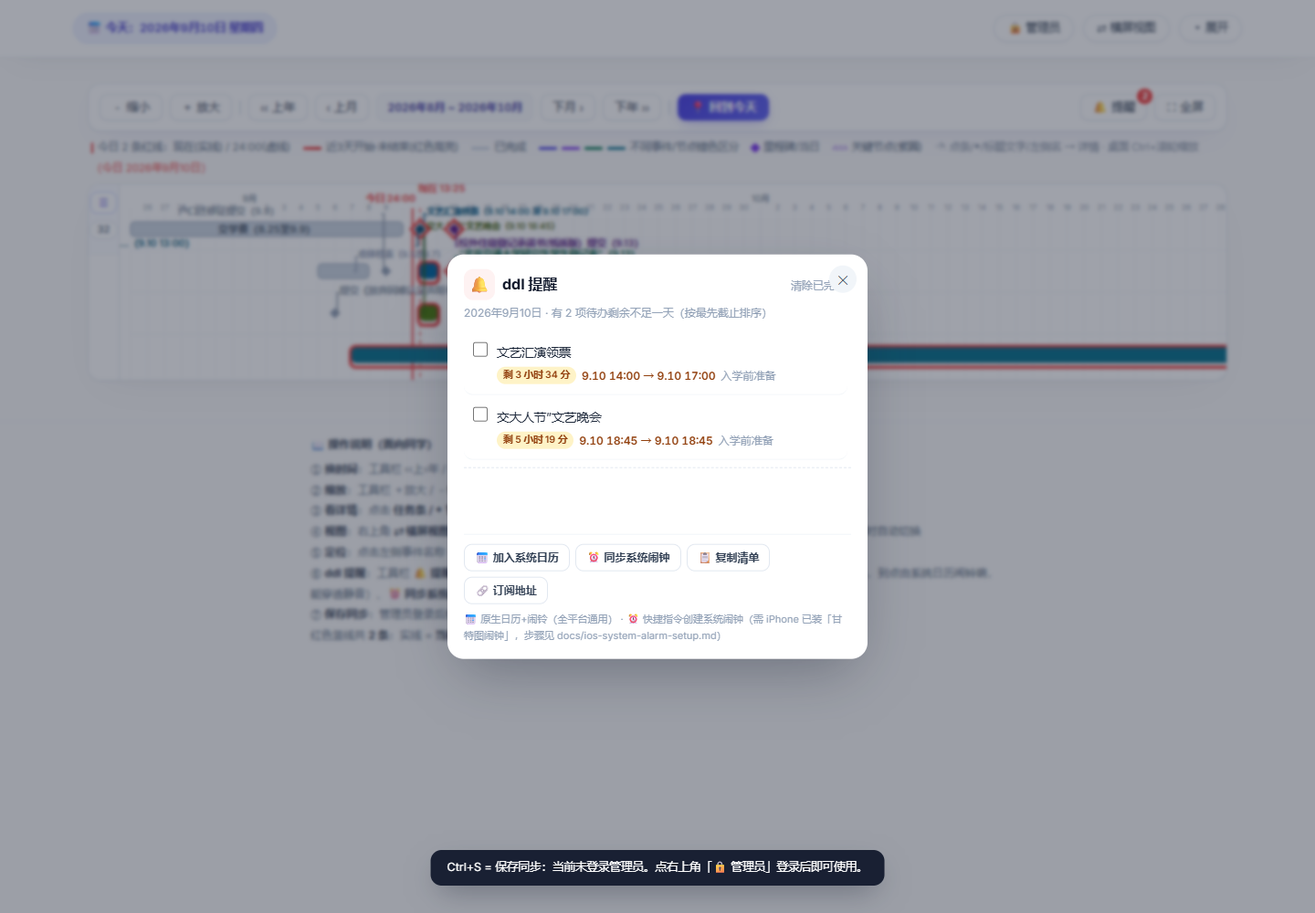
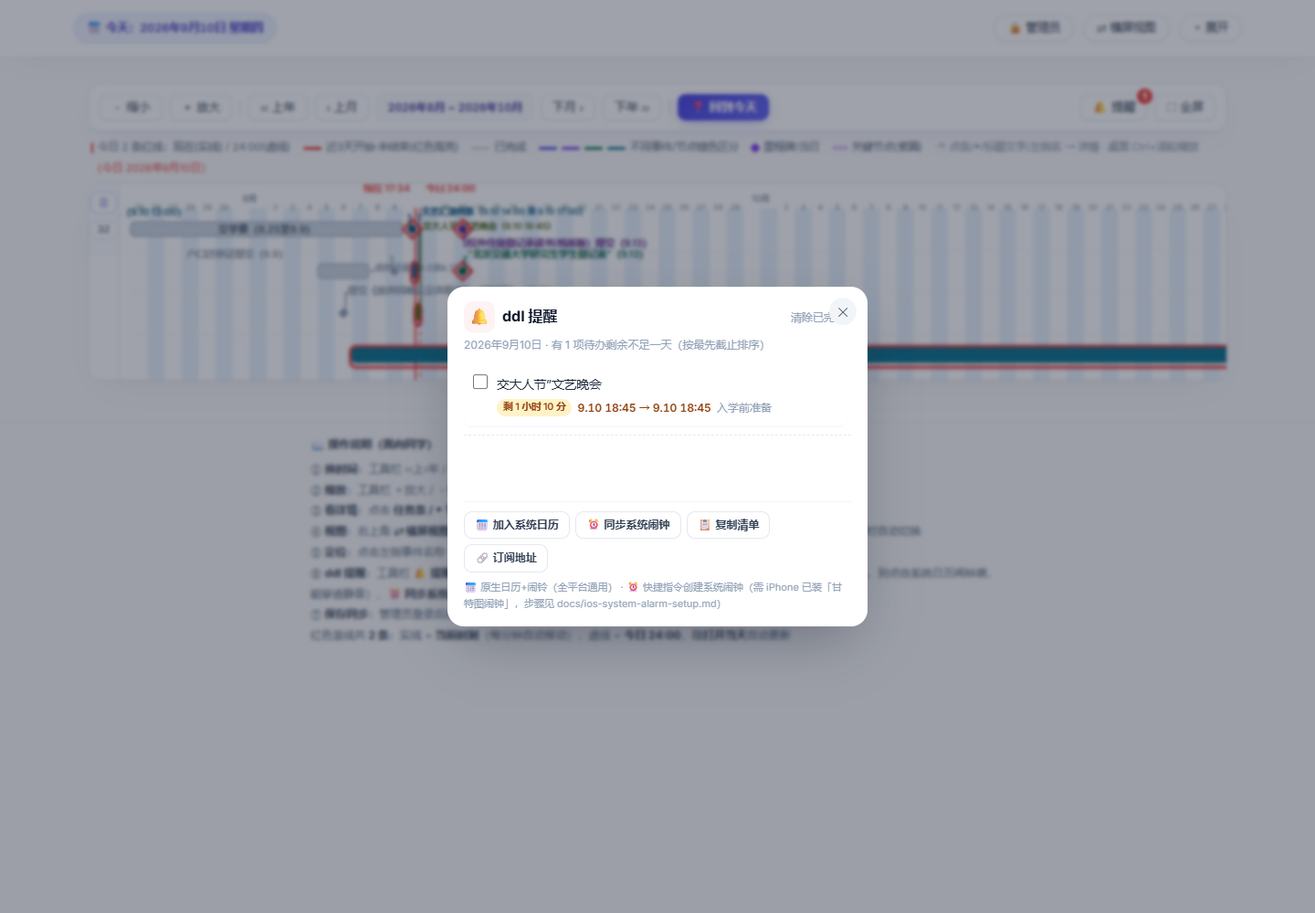
feat: 红线标注左右分置 + 逐日交替底色 + 日期数字居中 + 事件条分钟级等比定位
需求 1｜两条今日红线的标注对位
- viewer.js nowLinesSVG()：「现在 HH:mm」置于线的【左侧】(anchor=end)，「今日 24:00」
  置于线的【右侧】(anchor=start)；两侧越界时各自自动翻转
- 两条标注统一基线 y=AXIS_H-18（月份标签在 AXIS_H-7，错开一行），不再错位
- 去掉原先 24:00 标签「靠近月份标签就整条省略」的规避逻辑（已无必要）；
  nowLinesSVG 去掉不再使用的 monthLabelXs 形参

需求 2｜逐日交替底色 + 日期数字居中
- 新增 <g id="gv-zebra">：奇数日铺浅蓝 #e8f2fd、偶数日留白，先铺底再压网格与事件
  阈值 px>=4：更窄时单日不足 4px 会退化成摩尔纹噪声，此时靠月份网格定位
- 日期数字横坐标由「日起点」改为「日中心」(dj+0.5)*px —— 原贴日界线会让人误读成前后一天；
  同时删除已冗余的逐日 #f6f8fb 细网格（日界由交替底色表达），数字颜色 #9fb0c3 → #7e93a6 提对比

需求 3｜事件条按分钟级时刻等比定位与定长
- 新增 fracOfHM / xOfSpanStart / xOfSpanEnd / xOfPoint：
  条位置与长度按「日期 + 当日时刻占比」精确落位（3 小时的会议 = 1/8 天宽，最小 3px 保可点）
- 未填时刻语义与提醒/JSON 完全一致：开始 → 00:00；截止 → 23:59（同日且只填开始时刻 → 用开始时刻）
- 时间点/里程碑（零长度区间）：填了时刻精确落该分钟；未填取【当日正中】，避免压在日界线上分不清属于哪天
- 第二遍绘制去掉已无用的 x 轴中间变量；x1 改用 xOfPoint

测试与文档
- tools/verify-ui.js：新增 [6] 斑马纹与日期数字居中、[7] 分钟级等比定位（t25/m12/b7/b3 日内占比）、
  [8] 移动端竖屏+横屏；[2] 增补标注左右位与同基线断言；共 43 项
- ⚠ 测试反推 pxPerDay 不能用单条条纹的取整宽度（rect width 已 toFixed(1)，0.03px 取整误差
  乘十几天的跨度会放大成 0.04 天的假偏差）→ 改为用首尾两条蓝纹的跨度反推
- ⚠ ddl 面板断言由「固定时刻」改为「格式匹配」：面板会随真实时间淘汰已过期条目，硬编码时刻会假失败
- README：新增「坐标口径（分钟级，全链路统一）」段、渲染特性三条改写、文件清单同步
- index.html：资源版本号 → v23

验证：node test/unit.js 9 节全过；verify-ui.js 43 项全过（含移动端双视口）；标题文字 getBBox 两两碰撞 0 重叠

diff --git a/tools/verify-ui.js b/tools/verify-ui.js
@@ -61,6 +61,19 @@ function check(cond, msg) {
     return els.length === 2 ? [parseFloat(els[0].getAttribute('x1')), parseFloat(els[1].getAttribute('x1'))] : null;
   });
   check(nowX && nowX[1] > nowX[0], '「现在」线在「24:00」线左侧（' + (nowX && nowX.join(' < ')) + '）');
+  /* 标注左右位：①「现在」放线的左侧 ②「今日 24:00」放线的右侧；两条标注同一基线（不错位） */
+  const lab = await page.$$eval('#gv-nowlines text', els => els.map(e => ({
+    t: e.textContent, x: parseFloat(e.getAttribute('x')), y: parseFloat(e.getAttribute('y')),
+    an: e.getAttribute('text-anchor')
+  })));
+  const lNow = lab.filter(o => /^现在 \d{2}:\d{2}$/.test(o.t))[0];
+  const lEod = lab.filter(o => o.t === '今日 24:00')[0];
+  check(!!lNow && !!nowX && lNow.x < nowX[0] && lNow.an === 'end',
+    '「现在」标注在线左侧（文字 x=' + (lNow && lNow.x) + ' < 线 x=' + (nowX && nowX[0]) + '，anchor=' + (lNow && lNow.an) + '）');
+  check(!!lEod && !!nowX && lEod.x > nowX[1] && lEod.an === 'start',
+    '「今日 24:00」标注在线右侧（文字 x=' + (lEod && lEod.x) + ' > 线 x=' + (nowX && nowX[1]) + '，anchor=' + (lEod && lEod.an) + '）');
+  check(!!lNow && !!lEod && Math.abs(lNow.y - lEod.y) < 0.01,
+    '两条标注同基线 y=' + (lNow && lNow.y) + '（不再错位）');
 
   console.log('[3] 标题时间精确到分钟');
   const caps = await page.$$eval('#gv-svg .gv-bar title', els => els.map(e => e.textContent));
@@ -75,7 +88,9 @@ function check(cond, msg) {
   const whens = await page.$$eval('.gv-rem-list .gv-rem-item .when', els => els.map(e => e.textContent.trim()));
   const chips = await page.$$eval('.gv-rem-list .gv-rem-item .chip', els => els.map(e => e.textContent.trim()));
   check(whens.length > 0, '提醒列表有 ' + whens.length + ' 条');
-  check(whens.some(t => t.indexOf('9.10 14:00 → 9.10 17:00') >= 0), '每条显示开始→截止（分钟级）：' + whens.join(' | '));
+  /* 只断言「格式」是分钟级起止，不断言具体时刻：面板会随真实时间推移淘汰已过期条目 */
+  check(whens.every(t => /^\d{1,2}\.\d{1,2} \d{2}:\d{2} → \d{1,2}\.\d{1,2} \d{2}:\d{2}$/.test(t)),
+    '每条显示开始→截止（分钟级）：' + whens.join(' | '));
   check(chips.some(t => /剩 \d+ (分钟|小时)/.test(t)), '剩余时长精确到分钟：' + chips.join(' | '));
   const btns = await page.$$eval('.gv-rem-btn', els => els.map(e => e.textContent.trim()));
   check(btns.length === 4, '系统级通道 4 个按钮（实际 ' + btns.length + '）');
@@ -96,7 +111,113 @@ function check(cond, msg) {
   const toastTxt = await page.$eval('.gv-toast', e => e.textContent).catch(() => '');
   check(toastTxt.indexOf('Ctrl+S') >= 0, '未登录时给出明确提示（实际「' + toastTxt + '」）');
 
-  console.log('[6] 截图存档');
+  console.log('[6] 逐日交替底色 + 日期数字居中');
+  /* 用条纹几何反推 pxPerDay / LEFT_PAD。
+     ⚠ 不能用「单条条纹的取整宽度」当 px（rect width 已 toFixed(1)，0.03px 的取整误差乘上
+     十几天的跨度就会放大成 0.04 天的假偏差）——改用首尾两条蓝纹的跨度反推，精度提升两个数量级。 */
+  const geo = await page.evaluate(() => {
+    const svg = document.querySelector('#gv-svg');
+    const blue = svg.querySelectorAll('#gv-zebra rect');
+    if (!blue.length) return null;
+    const xs = Array.prototype.slice.call(blue).map(e => parseFloat(e.getAttribute('x')));
+    const fills = Array.prototype.slice.call(blue).map(e => e.getAttribute('fill'));
+    /* 蓝纹 zi = 1,3,5... 相邻两条相差 2 天 → px = (x_last - x_first) / (2*(n-1)) */
+    const px = xs.length > 1 ? (xs[xs.length - 1] - xs[0]) / (2 * (xs.length - 1)) : parseFloat(blue[0].getAttribute('width'));
+    const leftPad = xs[0] - px;                 /* 第 1 条蓝纹 = 第 1 天 → x = LEFT_PAD + 1*px */
+    const dn = Array.prototype.slice.call(svg.querySelectorAll('text'))
+      .filter(e => e.getAttribute('font-size') === '8.5' && /^\d{1,2}$/.test(e.textContent.trim()))
+      .map(e => Math.round((((parseFloat(e.getAttribute('x')) - leftPad) / px) % 1) * 1000) / 1000);
+    return { px: px, leftPad: leftPad, count: blue.length, xs: xs, fills: fills, dayFracs: dn };
+  });
+  check(!!geo && geo.count > 0, '存在逐日交替底色条纹（' + (geo && geo.count) + ' 条，px/天=' + (geo && geo.px.toFixed(2)) + '）');
+  check(!!geo && geo.fills.every(f => f === '#e8f2fd'), '条纹统一浅蓝 #e8f2fd');
+  check(!!geo && geo.xs.length > 1 && Math.abs((geo.xs[1] - geo.xs[0]) - 2 * geo.px) < 0.5,
+    '蓝条逐日交替（相邻蓝条间隔 = 2 天，实测 ' + (geo && (geo.xs[1] - geo.xs[0]).toFixed(1)) + 'px，期望 ' + (geo && (2 * geo.px).toFixed(1)) + 'px）');
+  check(!!geo && geo.dayFracs.length >= 3 && geo.dayFracs.every(f => Math.abs(f - 0.5) < 0.02),
+    '日期数字落在当日正中（日内小数≈0.5，实测 ' + (geo ? geo.dayFracs.slice(0, 6).join(' / ') : '') + '）');
+
+  console.log('[7] 事件条按分钟级时刻等比定位与定长');
+  const bars = await page.evaluate(() => {
+    const svg = document.querySelector('#gv-svg');
+    const blue = svg.querySelectorAll('#gv-zebra rect');
+    if (!blue.length) return null;
+    /* 与上面 [6] 同法：用首尾蓝纹跨度反推 px，避免取整宽度带来的累积偏差 */
+    const bxs = Array.prototype.slice.call(blue).map(e => parseFloat(e.getAttribute('x')));
+    const px = bxs.length > 1 ? (bxs[bxs.length - 1] - bxs[0]) / (2 * (bxs.length - 1)) : parseFloat(blue[0].getAttribute('width'));
+    const leftPad = bxs[0] - px;
+    const out = {};
+    ['t25', 'm12', 'b7', 'b3'].forEach(id => {
+      const host = svg.querySelector('.gv-bar[data-id="' + id + '"]');
+      if (!host) { out[id] = null; return; }
+      /* 近期事件会有「彩虹外描边」作为同级元素先出现：外描边 fill="none"，需排除 */
+      const rects = Array.prototype.slice.call(host.querySelectorAll('rect'));
+      const r = rects.filter(e => e.getAttribute('fill') !== 'none')[0];
+      const p = rects.length ? null : host.querySelector('path');
+      if (r) {
+        const x = parseFloat(r.getAttribute('x')), w = parseFloat(r.getAttribute('width'));
+        out[id] = { kind: 'rect', x: x, w: w, dayFrac: (x - leftPad) / px, frac: ((x - leftPad) / px) % 1, wDays: w / px };
+      } else if (p) {
+        const nums = (p.getAttribute('d') || '').match(/-?\d+(?:\.\d+)?/g);
+        const xs = (nums || []).map(Number).filter((_, i) => i % 2 === 0);
+        const cx = xs.length ? (Math.min.apply(null, xs) + Math.max.apply(null, xs)) / 2 : NaN;
+        out[id] = { kind: 'path', cx: cx, dayFrac: (cx - leftPad) / px, frac: ((cx - leftPad) / px) % 1 };
+      } else { out[id] = null; }
+    });
+    return { px: px, bars: out };
+  });
+  check(!!bars && !!bars.bars.t25 && Math.abs(bars.bars.t25.frac - 14 / 24) < 0.01,
+    't25 起点落在当日 14:00（日内占比 ' + (bars && bars.bars.t25 && bars.bars.t25.frac.toFixed(3)) + ' ≈ 0.583）');
+  const expW = bars ? Math.max(0.125 * bars.px, 3) : 0;
+  check(!!bars && !!bars.bars.t25 && Math.abs(bars.bars.t25.w - expW) < 0.6,
+    't25 长度 = 3 小时占比（期望 ' + expW.toFixed(1) + 'px，实际 ' + (bars && bars.bars.t25 && bars.bars.t25.w.toFixed(1)) + 'px）');
+  check(!!bars && !!bars.bars.m12 && Math.abs(bars.bars.m12.frac - 13 / 24) < 0.01,
+    'm12 里程碑落在当日 13:00（日内占比 ' + (bars && bars.bars.m12 && bars.bars.m12.frac.toFixed(3)) + ' ≈ 0.542）');
+  check(!!bars && !!bars.bars.b7 && Math.abs(bars.bars.b7.frac - 18.75 / 24) < 0.01,
+    'b7 落在当日 18:45（日内占比 ' + (bars && bars.bars.b7 && bars.bars.b7.frac.toFixed(3)) + ' ≈ 0.781）');
+  check(!!bars && !!bars.bars.b3 && Math.abs(bars.bars.b3.frac - 0.5) < 0.02,
+    '未填时刻的里程碑取当日正中（b3 日内占比 ' + (bars && bars.bars.b3 && bars.bars.b3.frac.toFixed(3)) + ' ≈ 0.5）');
+
+  console.log('[8] 移动端（竖屏 390×844 / 横屏 844×390）');
+  /* 本项目主要使用者是手机上打开的同学：逐日底色、日期数字居中、红线标注左右位都必须在
+     窄视口下同样成立（竖屏 px/天 较小，日期数字会按阈值自动省略，属预期）。 */
+  for (const vp of [{ w: 390, h: 844, n: '竖屏' }, { w: 844, h: 390, n: '横屏' }]) {
+    const mp = await browser.newPage({ viewport: { width: vp.w, height: vp.h } });
+    const merrs = [];
+    mp.on('pageerror', e => merrs.push(e.message));
+    mp.on('console', m => { if (m.type() === 'error') merrs.push(m.text()); });
+    await mp.goto(URL_, { waitUntil: 'load' });
+    await mp.waitForSelector('#gv-svg .gv-bar', { timeout: 15000 });
+    await mp.waitForTimeout(350);
+    const mr = await mp.evaluate(() => {
+      const svg = document.querySelector('#gv-svg');
+      const blue = svg.querySelectorAll('#gv-zebra rect');
+      const xs = Array.prototype.slice.call(blue).map(e => parseFloat(e.getAttribute('x')));
+      const px = xs.length > 1 ? (xs[xs.length - 1] - xs[0]) / (2 * (xs.length - 1)) : 0;
+      const leftPad = xs.length ? xs[0] - px : 0;
+      const dn = Array.prototype.slice.call(svg.querySelectorAll('text'))
+        .filter(e => e.getAttribute('font-size') === '8.5' && /^\d{1,2}$/.test(e.textContent.trim()))
+        .map(e => Math.round((((parseFloat(e.getAttribute('x')) - leftPad) / px) % 1) * 1000) / 1000);
+      const lab = Array.prototype.slice.call(svg.querySelectorAll('#gv-nowlines text')).map(e => ({ t: e.textContent, x: parseFloat(e.getAttribute('x')), an: e.getAttribute('text-anchor') }));
+      const ln = Array.prototype.slice.call(svg.querySelectorAll('#gv-nowlines line')).map(e => parseFloat(e.getAttribute('x1')));
+      return { px: px, zebra: blue.length, dn: dn, lab: lab, ln: ln, bars: svg.querySelectorAll('.gv-bar').length };
+    });
+    const tag = '[' + vp.n + '] ';
+    check(merrs.filter(e => !/favicon|fonts\.googleapis/i.test(e)).length === 0, tag + '无脚本错误');
+    check(mr.bars >= 30, tag + '事件条渲染完整（' + mr.bars + ' 条）');
+    check(mr.px > 0, tag + '逐日底色/日几何有效（px/天=' + mr.px.toFixed(2) + '）');
+    check(mr.dn.length === 0 || mr.dn.every(f => Math.abs(f - 0.5) < 0.02),
+      tag + '日期数字居中或按阈值省略（实测 ' + (mr.dn.length ? mr.dn.slice(0, 5).join('/') : '已省略，px<10.5') + '）');
+    if (mr.lab.length === 2 && mr.ln.length === 2) {
+      const n2 = mr.lab.filter(o => /^现在/.test(o.t))[0], e2 = mr.lab.filter(o => /^今日 24:00$/.test(o.t))[0];
+      check(!!n2 && n2.x < mr.ln[0] && n2.an === 'end', tag + '「现在」标注在线左侧');
+      check(!!e2 && e2.x > mr.ln[1] && e2.an === 'start', tag + '「今日 24:00」标注在线右侧');
+    } else {
+      console.log('  · ' + tag + '今日不在可视范围，跳过红线标签检查');
+    }
+    await mp.close();
+  }
+
+  console.log('[9] 截图存档');
   await page.screenshot({ path: path.join(__dirname, '..', 'docs', 'preview-desktop.png'), fullPage: false });
   await page.click('[data-act="remind"]');
   await page.waitForSelector('.gv-rem-panel.on');

diff --git a/js/viewer.js b/js/viewer.js
@@ -611,32 +611,33 @@
       var fracNow = (n.getHours() * 60 + n.getMinutes()) / 1440;
       return [xOfDayFrac(n, fracNow, px), xOfDayFrac(n, 1, px)];
     }
-    /* 两条红线的 SVG 片段（px/totalH 由调用方传入；单列成函数是为了让①线能被定时刷新，无需整图重绘） */
-    function nowLinesSVG(px, totalH, worldW, monthLabelXs) {
+    /* 两条红线的 SVG 片段（px/totalH 由调用方传入；单列成函数是为了让①线能被定时刷新，无需整图重绘）
+       标注位置约定（避免与月份标签行互相错位）：
+         · 「现在 HH:mm」文字置于线的【左侧】（左侧越界时自动翻到右侧）
+         · 「今日 24:00」文字置于线的【右侧】（右侧越界时自动翻到左侧）
+       两条标签共用同一条基线 y = AXIS_H-18（月份标签在 y = AXIS_H-7，错开一整行，互不撞字）。 */
+    function nowLinesSVG(px, totalH, worldW) {
       if (!hasTodayInRange) return '';
       var xs = redLineXs(px);
       var n = new Date();
       var nowHM = pad(n.getHours()) + ':' + pad(n.getMinutes());
+      var labY = (AXIS_H - 18).toFixed(1);
       var out = '';
-      /* ① 当前时刻：实线 + 顶行标签（顶行 y=AXIS_H-18 与月份标签(y=AXIS_H-7)错开一行，避免撞字） */
+      /* ① 当前时刻：实线 + 标签在左 */
       out += '<line x1="' + xs[0].toFixed(1) + '" y1="' + AXIS_H + '" x2="' + xs[0].toFixed(1) + '" y2="' + totalH + '" stroke="#ef4444" stroke-width="2.2" opacity=".95"/>';
       if (xs[0] >= LEFT_PAD && xs[0] <= worldW - RIGHT_PAD) {
         var labNow = '现在 ' + nowHM;
-        var fitsRight = (xs[0] + 6 + estW(labNow, 10.5)) <= (worldW - RIGHT_PAD + 6);
-        out += '<text x="' + (fitsRight ? xs[0] + 6 : xs[0] - 6).toFixed(1) + '" y="' + (AXIS_H - 18) +
-          '" text-anchor="' + (fitsRight ? 'start' : 'end') + '" font-size="10.5" font-weight="700" fill="#ef4444">' + labNow + '</text>';
+        var leftOk = (xs[0] - 6 - estW(labNow, 10.5)) >= 2;   /* 左侧放得下就放左边（默认） */
+        out += '<text x="' + (leftOk ? xs[0] - 6 : xs[0] + 6).toFixed(1) + '" y="' + labY +
+          '" text-anchor="' + (leftOk ? 'end' : 'start') + '" font-size="10.5" font-weight="700" fill="#ef4444">' + labNow + '</text>';
       }
-      /* ② 今日 24:00：虚线 + 与月份标签同行的右对齐标签（月份标签占位时省略文字，只留线） */
+      /* ② 今日 24:00：虚线 + 标签在右 */
       out += '<line x1="' + xs[1].toFixed(1) + '" y1="' + AXIS_H + '" x2="' + xs[1].toFixed(1) + '" y2="' + totalH + '" stroke="#ef4444" stroke-width="1.6" stroke-dasharray="5 4" opacity=".8"/>';
-      var labEod = '今日 24:00';
       if (xs[1] >= LEFT_PAD && xs[1] <= worldW - RIGHT_PAD) {
-        var nearMonth = false;
-        for (var mi2 = 0; mi2 < monthLabelXs.length; mi2++) {
-          if (Math.abs(xs[1] - monthLabelXs[mi2]) < 74) { nearMonth = true; break; }
-        }
-        if (!nearMonth) {
-          out += '<text x="' + (xs[1] - 5).toFixed(1) + '" y="' + (AXIS_H - 7) + '" text-anchor="end" font-size="10.5" font-weight="700" fill="#ef4444">' + labEod + '</text>';
-        }
+        var labEod = '今日 24:00';
+        var rightOk = (xs[1] + 6 + estW(labEod, 10.5)) <= (worldW - RIGHT_PAD + 4);  /* 右侧放得下就放右边（默认） */
+        out += '<text x="' + (rightOk ? xs[1] + 6 : xs[1] - 6).toFixed(1) + '" y="' + labY +
+          '" text-anchor="' + (rightOk ? 'start' : 'end') + '" font-size="10.5" font-weight="700" fill="#ef4444">' + labEod + '</text>';
       }
       return out;
     }
@@ -655,7 +656,7 @@
         var px = pxPerDay();
         var wW = parseFloat(svgEl.getAttribute('width')) || 0;
         var tH = parseFloat(svgEl.getAttribute('height')) || 0;
-        g.innerHTML = nowLinesSVG(px, tH, wW, curMonthLabelXs);
+        g.innerHTML = nowLinesSVG(px, tH, wW);
       }
       /* ② 提醒角标依赖「剩余时长」，跨分钟后可能变化 */
       try { remUpdateBadge(); } catch (e) {}
@@ -677,6 +678,20 @@
 
       function xOf(d) { return LEFT_PAD + diffDays(minDate, d) * px; }
       function yOfTrack(k) { return AXIS_H + k * rowH; }
+      /* ---- 分钟级定位（与提醒口径 / deadlines.json 完全一致，改一处必须同步另一处）----
+         开始：开始日期 + 开始时刻（未填时刻 → 当日 00:00）
+         截止：结束日期 + 结束时刻（未填 → 当日 23:59；起止同日且只填了开始时刻 → 用开始时刻）
+         于是「3 小时的会议」就是 1/8 天宽的条，不再一律占满整日。 */
+      function fracOfHM(hm) { return (hm.h * 60 + hm.mi) / 1440; }
+      function xOfSpanStart(t) { return xOfDayFrac(t.start, fracOfHM(remStartHM(t)), px); }
+      function xOfSpanEnd(t) { return xOfDayFrac(t.end || t.start, fracOfHM(remDueHM(t)), px); }
+      /* 时间点/里程碑（零长度区间）：填了时刻 → 精确落在该分钟；未填 → 取当日正中。
+         为什么未填取正中而不是日界：零长度标记压在斑马纹的日界线上会让人分不清属于哪一天。 */
+      function xOfPoint(t) {
+        var s = remHM(t.startTime, 0, 0);
+        var hm = s.exact ? s : remHM(t.endTime, 0, 0);   /* 只看时刻本身，不做 23:59 兜底 */
+        return xOfDayFrac(t.start, hm.exact ? fracOfHM(hm) : 0.5, px);
+      }
 
       var S = '';
       /* 近期事件高亮渐变 + 今日竖线渐变（红色 #ef4444 → #dc2626），用于「开始日在今天±3天内且未结束」的事件/节点与今日线
@@ -689,6 +704,17 @@
         '<stop offset="0" stop-color="#ef4444"/><stop offset="1" stop-color="#dc2626"/>' +
         '</linearGradient>' +
         '</defs>';
+
+      /* 逐日交替底色（浅蓝 #e8f2fd / 留白）：先铺底，再压网格与事件条，用于一眼区分相邻日期。
+         阈值 px>=4：再窄时单日不足 4px，条纹会退化成摩尔纹噪声，此时靠月份网格定位即可。 */
+      if (px >= 4) {
+        S += '<g id="gv-zebra">';
+        for (var zi = 1; zi < totalDays; zi += 2) {
+          S += '<rect x="' + (LEFT_PAD + zi * px).toFixed(1) + '" y="' + AXIS_H +
+            '" width="' + px.toFixed(1) + '" height="' + (totalH - AXIS_H).toFixed(1) + '" fill="#e8f2fd"/>';
+        }
+        S += '</g>';
+      }
 
       /* 月份网格 + 轴标签 */
       S += '<g>';
@@ -709,27 +735,21 @@
           lastLabelX = xm;
         }
       }
-      /* 天刻度：逐日细网格 + 【每一天】数字刻度（px 足够时全部显示，随缩放自动取舍；避开月份/红线文字） */
+      /* 天刻度：【每一天】的日期数字放在该日区间的正中（原来贴在日界线上，视觉上分不清属于哪一天；
+         日界线本身已由逐日交替底色表达，不再画冗余细网格） */
       var redXs = redLineXs(px);
-      if (px >= 6) {
-        for (var di = 0; di <= totalDays; di++) {
-          var ddx = LEFT_PAD + di * px;
-          S += '<line x1="' + ddx.toFixed(1) + '" y1="' + AXIS_H + '" x2="' + ddx.toFixed(1) + '" y2="' + totalH + '" stroke="#f6f8fb" stroke-width="1"/>';
-        }
-        if (px >= 10.5) {
-          /* 每一天都显示日期数字（不再只显示奇数天） */
-          for (var dj = 0; dj <= totalDays; dj++) {
-            var ddt = addDays(minDate, dj);
-            var ddx2 = LEFT_PAD + dj * px;
-            var tooNear = false;
-            for (var ri = 0; !tooNear && ri < redXs.length; ri++) { if (Math.abs(ddx2 - redXs[ri]) < 12) tooNear = true; }
-            for (var mi = 0; !tooNear && mi < monthLabelXs.length; mi++) {
-              if (Math.abs(ddx2 - monthLabelXs[mi]) < 10) tooNear = true;
-            }
-            if (tooNear) continue;
-            if (ddx2 < LEFT_PAD + 7 || ddx2 > worldW - RIGHT_PAD - 4) continue;
-            S += '<text x="' + ddx2.toFixed(1) + '" y="' + (AXIS_H + 2) + '" text-anchor="middle" font-size="8.5" fill="#9fb0c3">' + ddt.getDate() + '</text>';
+      if (px >= 10.5) {
+        for (var dj = 0; dj < totalDays; dj++) {
+          var ddt = addDays(minDate, dj);
+          var ddx2 = LEFT_PAD + (dj + 0.5) * px;          /* 日中心 */
+          var tooNear = false;
+          for (var ri = 0; !tooNear && ri < redXs.length; ri++) { if (Math.abs(ddx2 - redXs[ri]) < 12) tooNear = true; }
+          for (var mi = 0; !tooNear && mi < monthLabelXs.length; mi++) {
+            if (Math.abs(ddx2 - monthLabelXs[mi]) < 12) tooNear = true;
           }
+          if (tooNear) continue;
+          if (ddx2 < LEFT_PAD + 7 || ddx2 > worldW - RIGHT_PAD - 4) continue;
+          S += '<text x="' + ddx2.toFixed(1) + '" y="' + (AXIS_H + 2) + '" text-anchor="middle" font-size="8.5" fill="#7e93a6">' + ddt.getDate() + '</text>';
         }
       }
       curMonthLabelXs = monthLabelXs;
@@ -742,7 +762,7 @@
 
       /* 今日两条红线（纯红 #ef4444；SVG 渐变在零宽竖线上会失效，故用纯色）：
          ① 当前时刻（分钟级，独立 #gv-nowlines 组，可被 tickNowLine 单独刷新） ② 今日 24:00 */
-      S += '<g id="gv-nowlines">' + nowLinesSVG(px, totalH, worldW, monthLabelXs) + '</g>';
+      S += '<g id="gv-nowlines">' + nowLinesSVG(px, totalH, worldW) + '</g>';
 
       /* ================= 绘制事件（两遍：先画条收集占用矩形，再放里程碑与防重叠标注） ================= */
       var barRects = [];    // 已画元素占用 {x1,y1,x2,y2}
@@ -766,8 +786,9 @@
       /* ---- 第一遍：普通时间条 ---- */
       tasksAll.forEach(function (t) {
         if (t.point || t.milestone) return;
-        var x1 = xOf(t.start), x2 = xOf(t.end);
-        var w = Math.max(x2 - x1 + px, 3);
+        /* 起止按「日期 + 分钟级时刻」比例定位与定长：3 小时的事件就是 1/8 天宽（最小 3px 保可点） */
+        var x1 = xOfSpanStart(t), x2 = xOfSpanEnd(t);
+        var w = Math.max(x2 - x1, 3);
         var st = statusOf(t, today);
         var k = layout.trackOf[t.id];
         var cy = yOfTrack(k) + rowH / 2;
@@ -919,7 +940,7 @@
 
       /* ---- 第二遍：里程碑/当日点（菱形+旁标）与过窄条外置名称标注 ---- */
       tasksAll.forEach(function (t) {
-        var x1 = xOf(t.start), x2 = xOf(t.end);
+        var x1 = xOfPoint(t);   /* 分钟级定位：填了时刻落该分钟；未填取当日正中 */
         var k = layout.trackOf[t.id];
         var cy = yOfTrack(k) + rowH / 2;
         var id = esc(t.id || '');

diff --git a/index.html b/index.html
@@ -181,11 +181,11 @@
   </div>
 </div>
 
-<script src="./js/parser.js?v=22"></script>
-<script src="./js/events.js?v=22"></script>
-<script src="./js/ics.js?v=22"></script>
-<script src="./js/admin.js?v=22"></script>
-<script src="./js/viewer.js?v=22"></script>
+<script src="./js/parser.js?v=23"></script>
+<script src="./js/events.js?v=23"></script>
+<script src="./js/ics.js?v=23"></script>
+<script src="./js/admin.js?v=23"></script>
+<script src="./js/viewer.js?v=23"></script>
 <script>
   // 内置示例（仅当无法读取 gantt.md 时兜底，保证 file:// 双击也能看到效果）
   const SAMPLE_GANTT = `gantt

diff --git a/README.md b/README.md
@@ -16,19 +16,21 @@
 | `index.html` | 手机/电脑访问的渲染页：打开时读取 gantt.md → 自研轻量渲染器现场出图（无外部依赖） |
 | `js/parser.js` | Mermaid gantt 语法子集解析器（浏览器+Node 双用） |
 | `js/events.js` | 班级事务结构化详情（表二·班群通知表，b1..b9） |
-| `js/viewer.js` | 自研交互式 SVG 甘特渲染器：年月切换/回到今天/缩放（桌面 Ctrl+滚轮）/点击看详情/事件错色/智能防重叠标注/天刻度/双条今日红线/手机横屏整页 90° 旋转 |
+| `js/viewer.js` | 自研交互式 SVG 甘特渲染器：年月切换/回到今天/缩放（桌面 Ctrl+滚轮）/点击看详情/事件错色/智能防重叠标注/逐日交替底色/**分钟级等比事件条**/双条今日红线/手机横屏整页 90° 旋转 |
 | `js/ics.js` | iCalendar(.ics) 生成器（网页「加入系统日历」与构建期 `deadlines.ics` 共用，UTC 绝对触发时刻） |
 | `vendor/mermaid.min.js` | 自托管渲染引擎 v11.17.2（仅 `editor.html` 本地编辑器使用） |
 | `editor.html` | 本地即时预览编辑器（双击打开，左侧改代码右侧实时出图） |
 | `test/unit.js` | Node 单测：解析器 + 数据完整性 + 序列化 round-trip + ics 生成器 + 分钟级时间口径（`node test/unit.js`） |
-| `tools/verify-ui.js` | 真实 Chromium 端到端自检：两条红线 / 分钟级标题 / ddl 面板 / Ctrl+S / .ics 通道 + 出预览截图（开发期工具，需本机 playwright） |
+| `tools/verify-ui.js` | 真实 Chromium 端到端自检：红线标注左右位 / 分钟级标题 / 逐日斑马纹 / 日期数字居中 / 分钟级等比事件条 / ddl 面板 / Ctrl+S / .ics 通道 + 出预览截图（开发期工具，需本机 playwright） |
 | `tools/build-deadlines.js` | ⭐ 把 `gantt.md` 编译成 `deadlines.json` + `deadlines.ics`（`node tools/build-deadlines.js`） |
 | `deadlines.json` | **自动生成，勿手改**：拍平后的待办清单（时间精确到分钟），iPhone 快捷指令直接读取 |
 | `deadlines.ics` | **自动生成，勿手改**：可订阅的系统日历源，一次订阅长期生效（含到点/提前两个闹铃） |
 | `docs/ios-reminder-setup.md` | iPhone 强提醒配置指南（快捷指令 + 定时自动化，零服务器） |
 | `docs/ios-system-alarm-setup.md` | iPhone **系统级闹钟/日历**配置指南（日历订阅、.ics 导入、时钟 App 真闹钟） |
 
-**今日线原理**：渲染时按浏览器当前日期绘制两条红色竖线 —— 实线为**当前时刻**（分钟级小数天偏移，页面上每分钟自动移动），虚线为**今日 24:00**（当日右边界）。全部本地计算，无服务器、无定时任务。
+**今日线原理**：渲染时按浏览器当前日期绘制两条红色竖线 —— 实线为**当前时刻**（分钟级小数天偏移，页面上每分钟自动移动，标注「现在 HH:mm」置于线**左**侧），虚线为**今日 24:00**（当日右边界，标注置于线**右**侧）。全部本地计算，无服务器、无定时任务。
+
+**坐标口径（分钟级，全链路统一）**：事件条的位置与长度按 `开始日期+开始时刻` → `结束日期+结束时刻` 的**真实比例**落在时间轴上（3 小时的会议就是 1/8 天宽，最小 3px 保可点）。未填时刻时的默认语义：开始 → 当日 00:00；截止 → 当日 23:59（起止同日且只填了开始时刻 → 用开始时刻）。时间点/里程碑是零长度区间：填了时刻精确落在该分钟，未填则取**当日正中**（压在日界线上会分不清属于哪一天）。此口径与 ddl 提醒、`deadlines.json`、`deadlines.ics` 完全一致 —— 改一处必须同步改 `js/viewer.js` 的 `remStartHM/remDueHM` 与 `tools/build-deadlines.js` 的 `startHmOf/dueHmOf`。
 
 ## 二、日常更新（3 步，以后每天都这样）
 
@@ -61,10 +63,11 @@
 - 点击左侧事件名 → 弹详情 + 自动滚动定位到事件日期 + 闪烁高亮
 
 渲染特性：
-- 时间轴：年份/月份行 + 逐日细网格；放大后【每一天】都有数字刻度（不再限奇数天，随缩放自动取舍）
-- **今日两条红线**：实线 = **当前时刻**（分钟级，页面上每分钟自动移动），虚线 = **今日 24:00**（当日右边界，即次日 00:00）
+- 时间轴：年份/月份行 + **逐日交替底色**（浅蓝 `#e8f2fd` / 留白，一眼区分相邻日期；`px/天 < 4` 时自动省略，避免退化成摩尔纹）；放大后【每一天】的日期数字显示在**该日区间正中**（原来贴日界线，容易误读成前后一天）
+- **事件条按分钟级时段等比定位定长**：`9.10 14:00 → 17:00` 的会议就是 1/8 天宽、起点落在当天 14:00 处；时间点/里程碑填了时刻就精确落在那一分钟（未填取当日正中）
+- **今日两条红线**：实线 = **当前时刻**（分钟级，页面上每分钟自动移动，标注「现在 HH:mm」在线**左**侧），虚线 = **今日 24:00**（当日右边界，标注在线**右**侧）；两条标注同基线，不再错位
 - 配色：已完成统一灰；其余事件按序号错色（12 色调色板 × 步长 5，相邻事件不同色），关键节点（crit）叠加紫圈
-- 标注：每条呈现「名称(起 至 止)」形态且**精确到分钟**，例如 `文艺汇演领票（9.10 14:00 至 9.10 17:00）`；起止同刻只显示一次（`9.10 18:45`），无时刻的条目保持纯日期（`9.13`）；超长注记自动降级、条内放不下时条尾外置并强制显示；条/点旁标注按"右/左/上/下"四档试位 + 双向碰撞检测防重叠
+- 标注：每条呈现「名称(起 至 止)」形态且**精确到分钟**，例如 `文艺汇演领票（9.10 14:00 至 9.10 17:00）`；起止同刻只显示一次（`9.10 18:45`），无时刻的条目保持纯日期（`9.13`）；超长注记自动降级、条内放不下时条尾外置并强制显示；条/点旁标注按"右/左/上/下"四档试位 + 双向碰撞检测防重叠（实测 32 条标题 0 重叠）
 - 视图：右上角 **⇄ 横屏视图** 按钮可随时切换 常规视图 ↔ **整页向右旋转 90°**（header + 甘特图 + footer 整体旋转，手机横着看更清晰）；手机横屏时自动切换
 
 ## 三、首次部署到 EdgeOne Pages（一次性，约 5 分钟）
